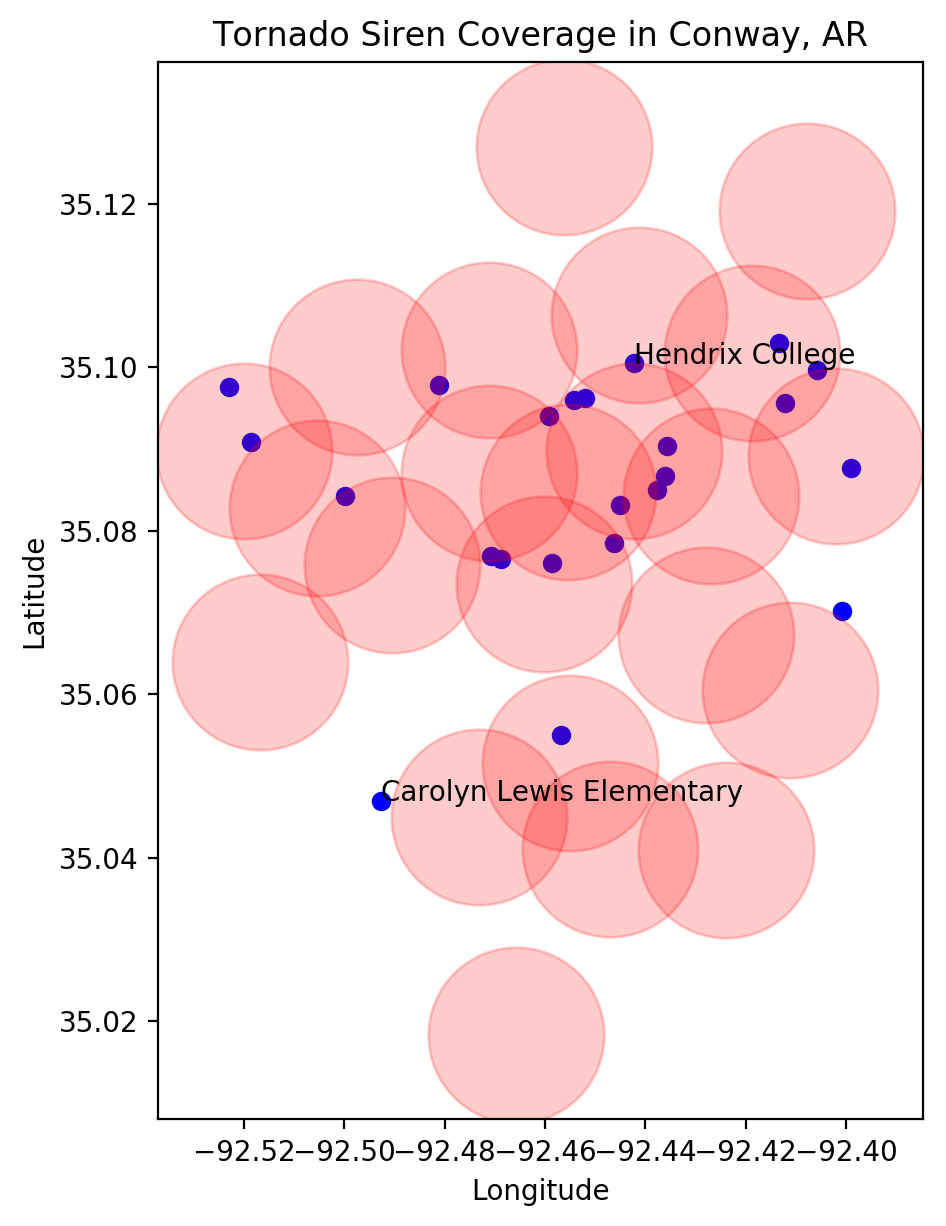
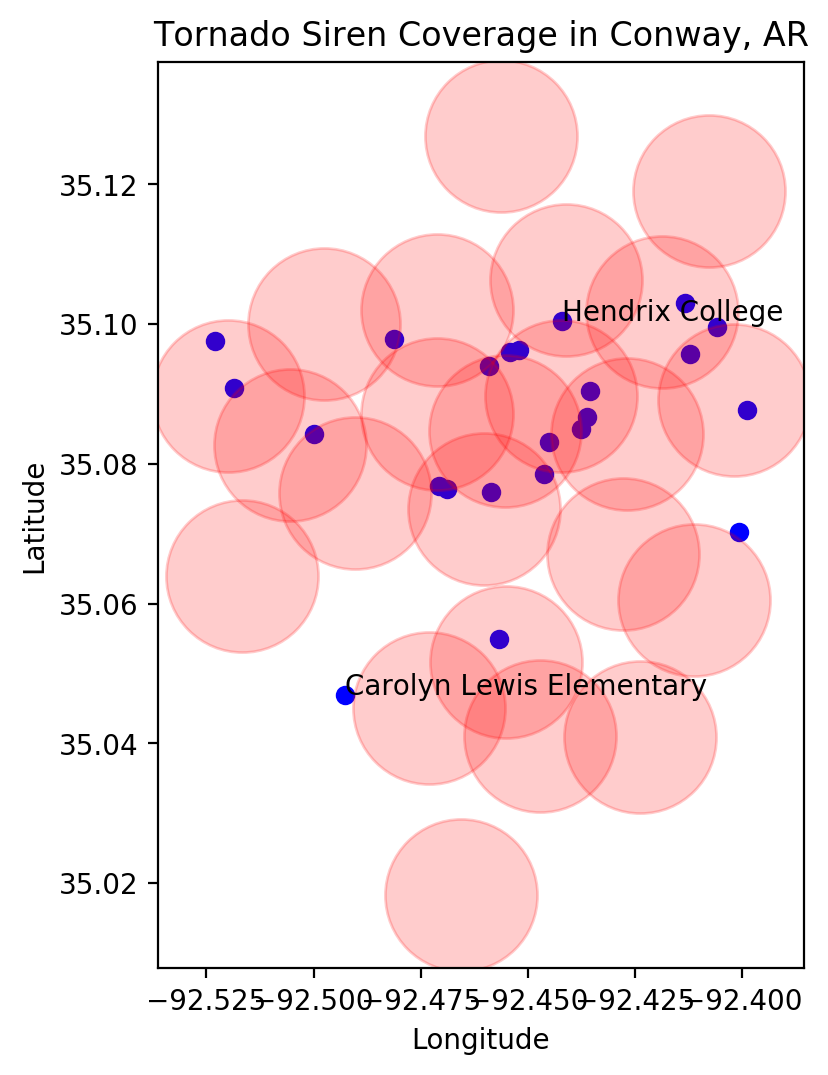
Reworking a figure, minor edits to Lab 13

diff --git a/labs/lab13.html b/labs/lab13.html
@@ -138,7 +138,7 @@ to match our actual coordinates. We can control the <b>aspect ratio</b> of the i
 the size of the image by adding the following two lines before our call to <code>plt.scatter</code>.
 <p>
 <pre>
-fig = plt.figure(figsize=(6, 6), dpi=100)
+plt.figure(figsize=(6, 6), dpi=100)
 plt.axes().set_aspect(1)
 </pre>
 <p>
@@ -222,7 +222,7 @@ Next we will load each file into a list of lists so we can have easy programatic
 information. Write code to open the Schools.csv file. The first line of the file is the 
 header information, you should ignore this line. For each subsequent line in the file, strip it of whitespace 
 and split it on the comma character ','. Add this list to a larger list called <code>schools</code>.
-If you are successful, you should have a list of 23 schools, and the following value for <code>schools[1]</code>
+If you are successful, you should have a list of 23 lists, and the following value for <code>schools[1]</code>
 <p>
 <pre>
 ['-92.454169059470274',
@@ -237,7 +237,7 @@ If you are successful, you should have a list of 23 schools, and the following v
 <p>
 Also repeat the above code for the Tornado_Sirens.csv file to create a list called <code>sirens</code>.
 <b>But, only add sirens that are marked as 'Y' in the 'active' column.</b>
-If you are successful, you should have a list of 23 schools, and the following value for <code>sirens[1]</code>
+If you are successful, you should have a list of 23 lists, and the following value for <code>sirens[1]</code>
 <p>
 <pre>
 ['-92.45626368838704',
@@ -310,7 +310,7 @@ getting smaller as it approaches the north and south poles of the earth. Use a v
 <p>
 Let's also enlarge the circles for sirens to show the extent 
 to which we can expect them to be heard.
-Make the siren radius equal 4000, and use an alpha value of 0.2 to make their color semi-transparent.
+Make the siren radius equal 3000, and use an alpha value of 0.2 to make their color semi-transparent.
 <p>
 Be sure to add a sensible title to your figure, and label the axes.
 <p>
@@ -336,7 +336,9 @@ that more tornado sirens are needed?
 
 <h2>What to Hand In</h2>
 Turn in your completed <tt>lab13.ipynb</tt> file on Moodle, along with an Evaluation
-Document that answers the questions posed in each task above. Also include in this document 
+Document that answers the questions labeled with a Q that were posed in each task above. 
+<p>
+Also include in this document 
 a reflection on the civic engagement portion of this lab answering the following questions. 
 
 <ul>
